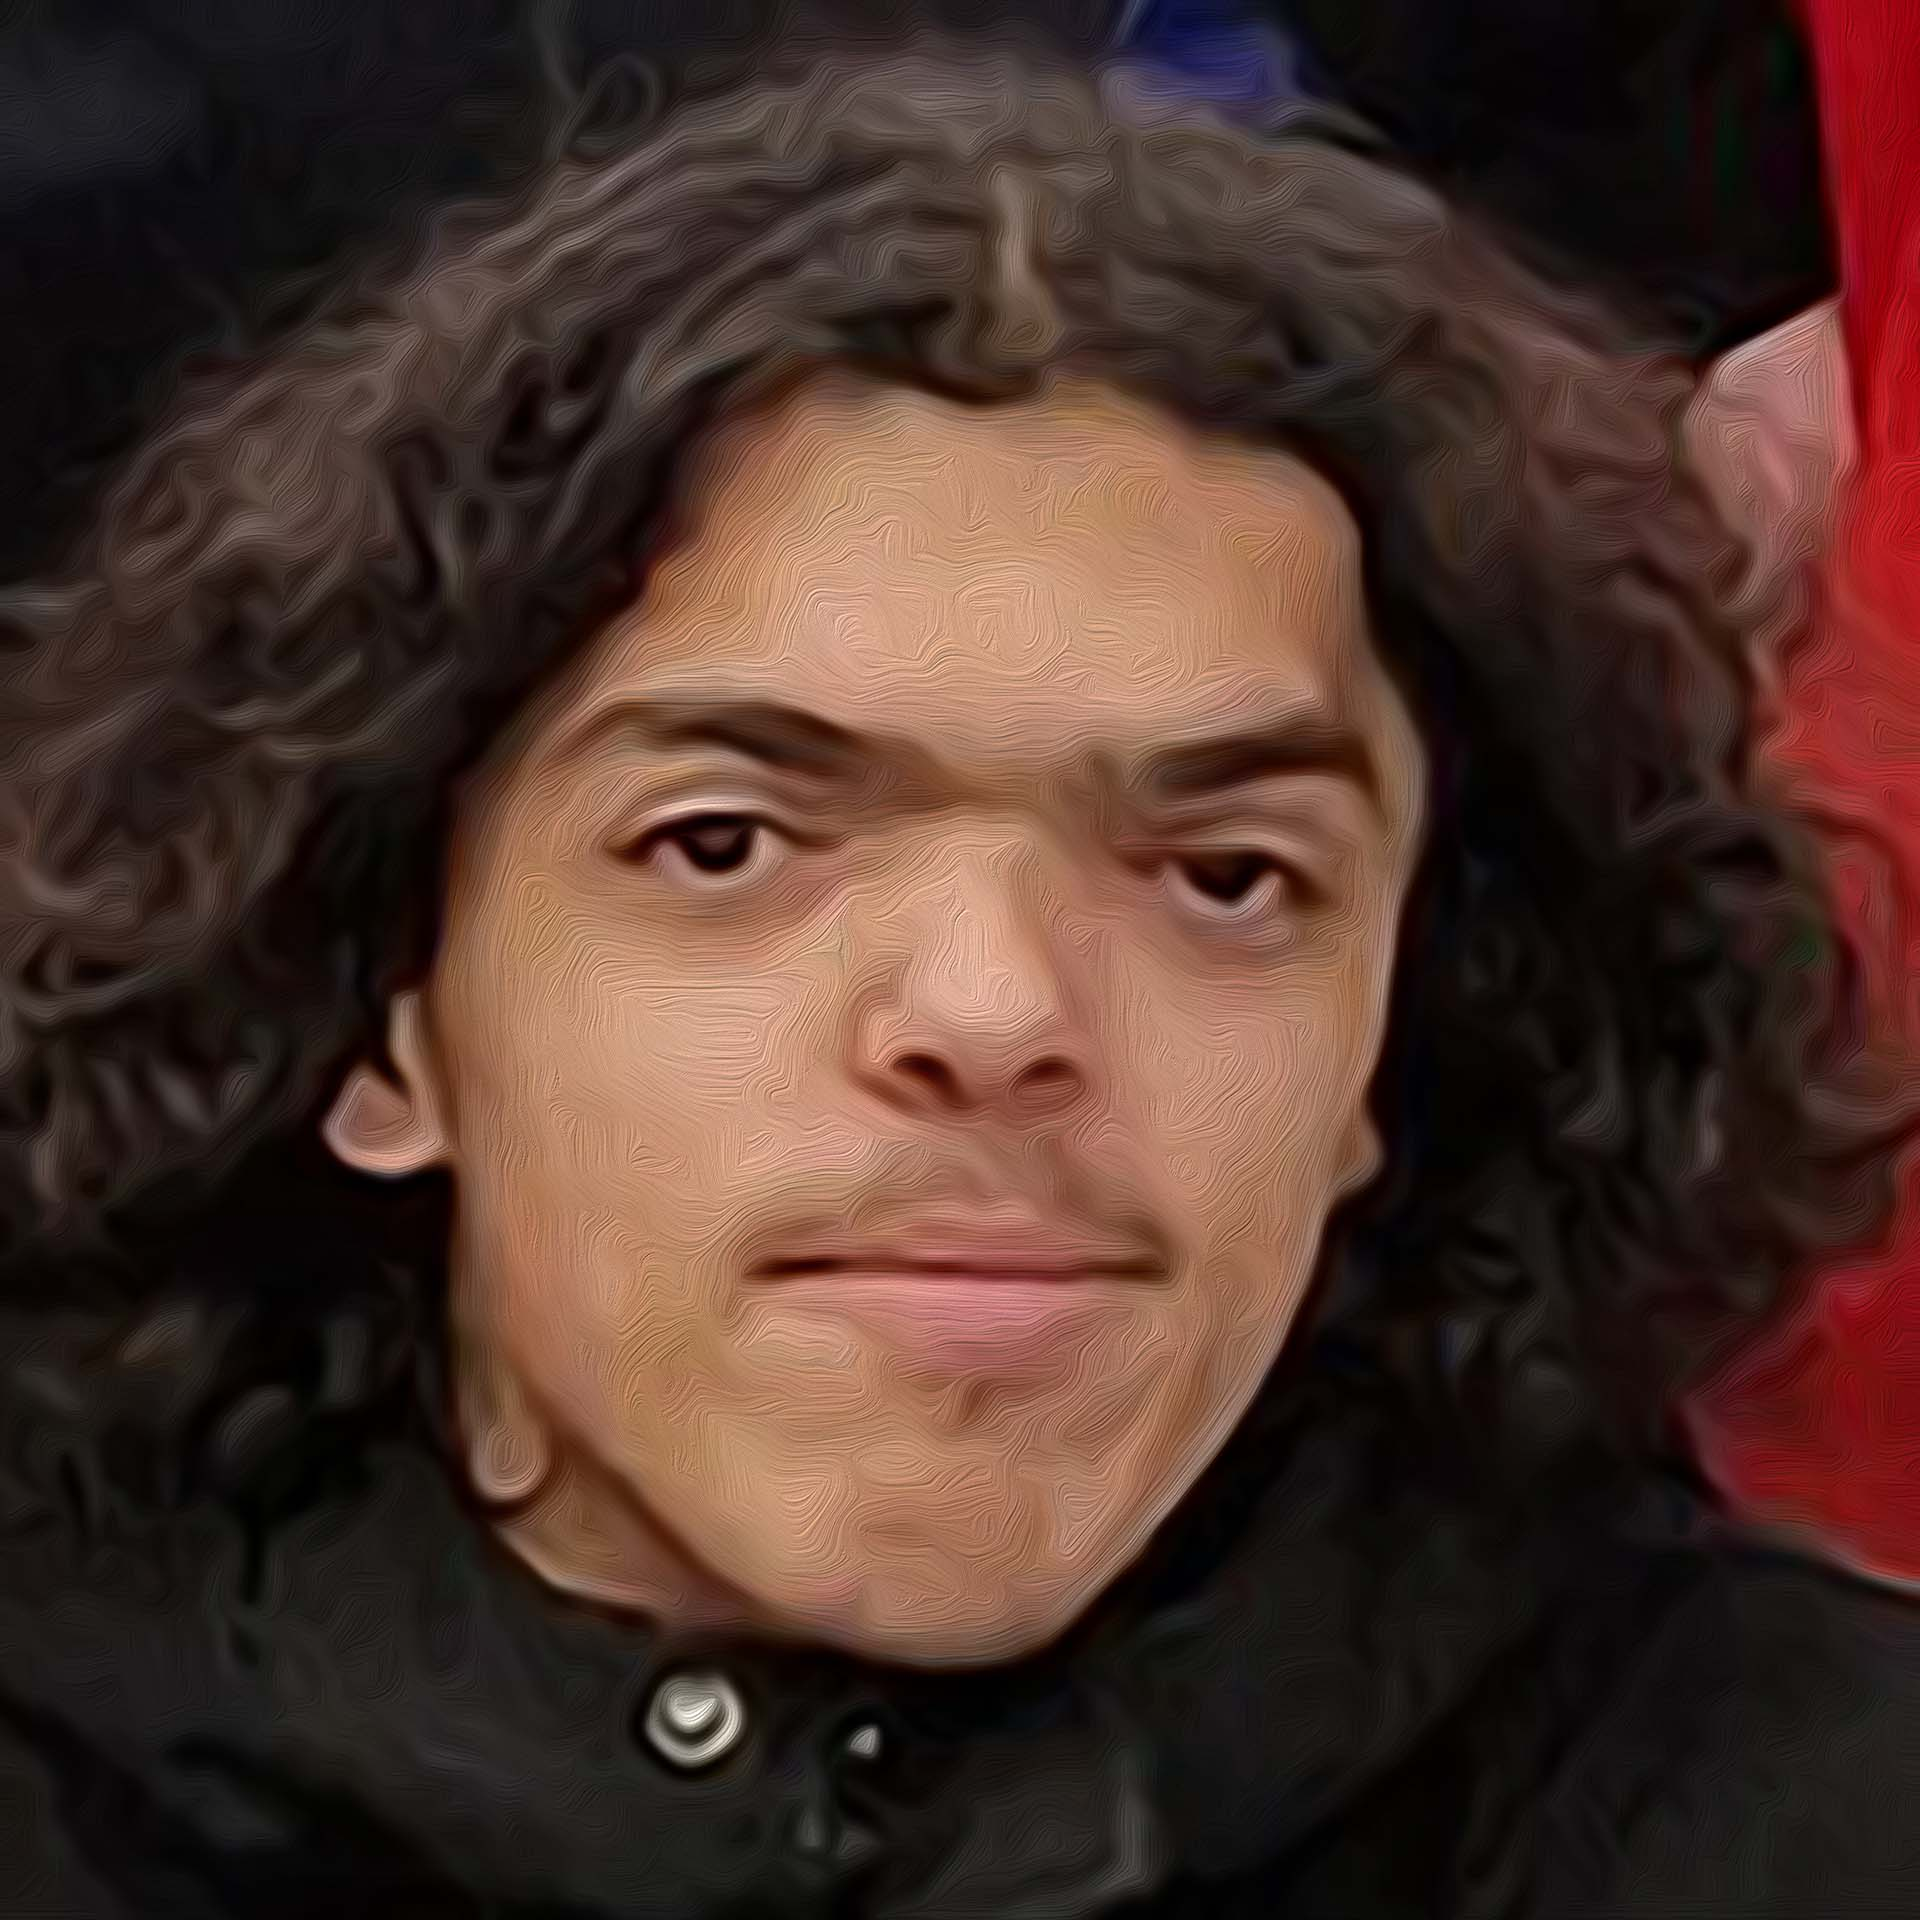
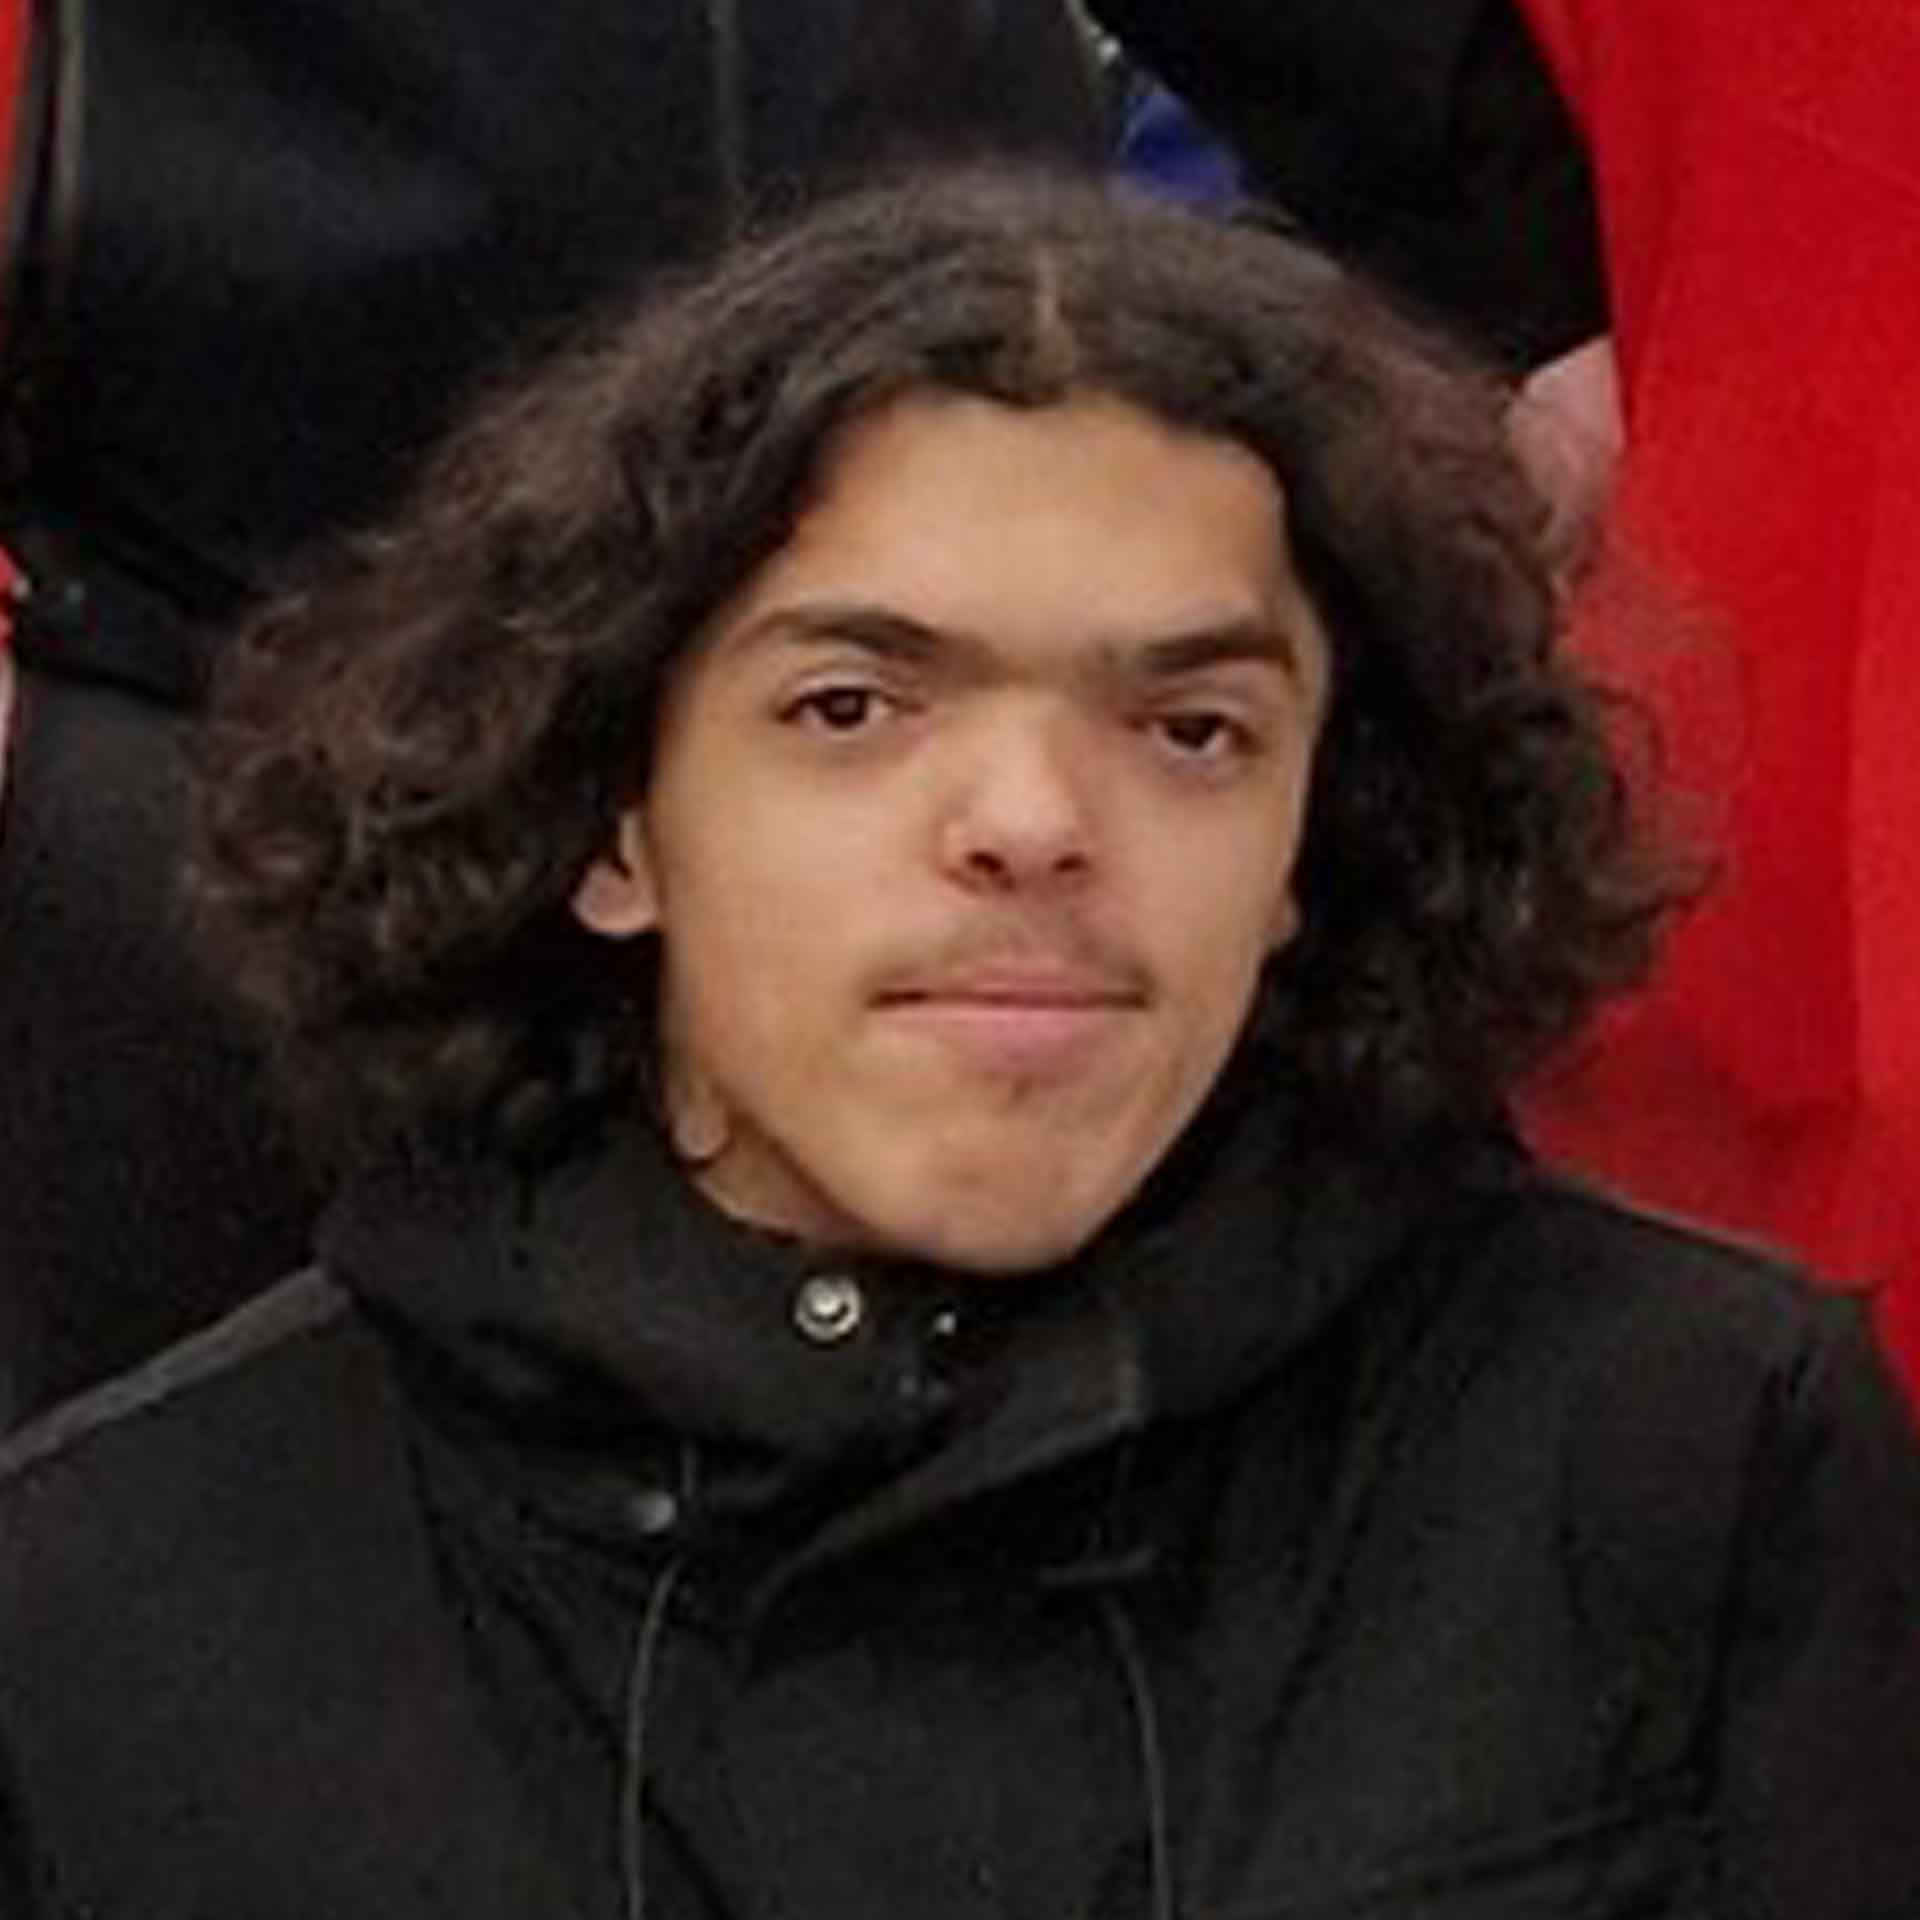
Added Elfsight, Photos, Speed
Added registered Elfsight plugins, changed team photos to better ones, changed data-speed of brands scroller from "slow" to "normal", made intro-text smaller below 500px width.

diff --git a/index.html b/index.html
@@ -89,7 +89,7 @@
                         <!-- Modal content -->
                         <div class="modal-content">
                             <span class="close">&times;</span>
-                            <div class="elfsight-app-5024e11b-6470-4a33-944a-c18986c9293f" data-elfsight-app-lazy></div>
+                            <div class="elfsight-app-47c793fe-0154-4112-a9a7-64fb8cd090b6" data-elfsight-app-lazy></div>
                         </div>
                     </div>
                 </div>
@@ -98,7 +98,7 @@
     </section>
 
     <section>
-        <div class="scroller" data-direction="right" data-speed="slow">
+        <div class="scroller" data-direction="right" data-speed="normal">
             <div class="scroller__inner">
               <img src="assets/main/Brand-1-Yamaha-Logo-30px-Grey.svg" alt="Logo Yamaha" />
               <img src="assets/main/Brand-2-Moto-Guzzi-Logo-30px-Grey.svg" alt="Logo Moto Guzzi" />
@@ -153,7 +153,7 @@
                 <span>NEWS</span>
             </div>
             <div class="facebook-injection">
-                <div class="elfsight-app-8388887d-43f4-4525-9334-7ee81c33da1f" data-elfsight-app-lazy></div>
+                <div class="elfsight-app-fa304c88-261e-40da-a802-c95f6946ee15" data-elfsight-app-lazy></div>
             </div>
             <div class="stripe-bottom">
                 <span></span>
@@ -238,7 +238,7 @@
                 <span>VOS AVIS</span>
             </div>
             <div class="google-reviews-injection">
-                <div class="elfsight-app-3c8bea2d-4f3e-4d98-9c05-3e12bc46f6c8" data-elfsight-app-lazy></div>
+                <div class="elfsight-app-0788d4d7-ab89-4a5c-8310-9f80e8ae6e43" data-elfsight-app-lazy></div>
             </div>
             <div class="stripe-bottom">
                 <span></span>
@@ -353,7 +353,7 @@
                             <br>
                             <img class="icon-uk-flag" src="assets/main/icon-uk-flag.svg" alt="">
                             <br>
-                            I speak English, bruv!
+                            I speak English!
                         </p>
                     </div>
                 </div>
@@ -370,9 +370,9 @@
                 </div>
                 <div class="portraits-card">
                     <div class="portraits-photo">
-                        <img loading="lazy" src="assets/main/Portrait-Valentin.jpg" alt="Photo Potrait of Valentin">
+                        <img loading="lazy" src="assets/main/Portrait-Dylan-Atelier.jpg" alt="Photo Potrait of Dylan">
                     </div>
-                    <div class="portraits-nom">Valentin<br>ATELIER</div>
+                    <div class="portraits-nom">Dylan<br>ATELIER</div>
                     <div class="portraits-texte">
                         <p>
                             Mécanicien.

diff --git a/style.css b/style.css
@@ -499,16 +499,16 @@ a:hover {
     font-family: var(--font-text);
     margin: 0 auto;
     padding: 8vw 16vw;
-    text-shadow:
+    /* text-shadow:
     3px 3px 0 var(--clr-main-bground),
     -3px 3px 0 var(--clr-main-bground),
     -3px -3px 0 var(--clr-main-bground),
-    3px -3px 0 var(--clr-main-bground);
+    3px -3px 0 var(--clr-main-bground); */
 }
 
 .intro-textes a {
     text-decoration: underline;
-    text-underline-offset: 0.5rem;
+    text-underline-offset: 0.3rem;
 }
 
 

diff --git a/occasions.html b/occasions.html
@@ -67,7 +67,7 @@
         <!-- Modal content -->
         <div class="modal-content">
             <span class="close">&times;</span>
-            <div class="elfsight-app-5024e11b-6470-4a33-944a-c18986c9293f" data-elfsight-app-lazy></div>
+            <div class="elfsight-app-47c793fe-0154-4112-a9a7-64fb8cd090b6" data-elfsight-app-lazy></div>
         </div>
     </div>
       

diff --git a/mediaqueries.css b/mediaqueries.css
@@ -240,6 +240,11 @@
         text-shadow: var(--clr-main-bground) 1px 0 10px;
     }
 
+    /* INTRO TEXTS */
+    .intro-textes {
+        font-size: 14px;
+    }
+
     /* PANORAMIC IMAGES */
     .panoramic {
         display: none;
